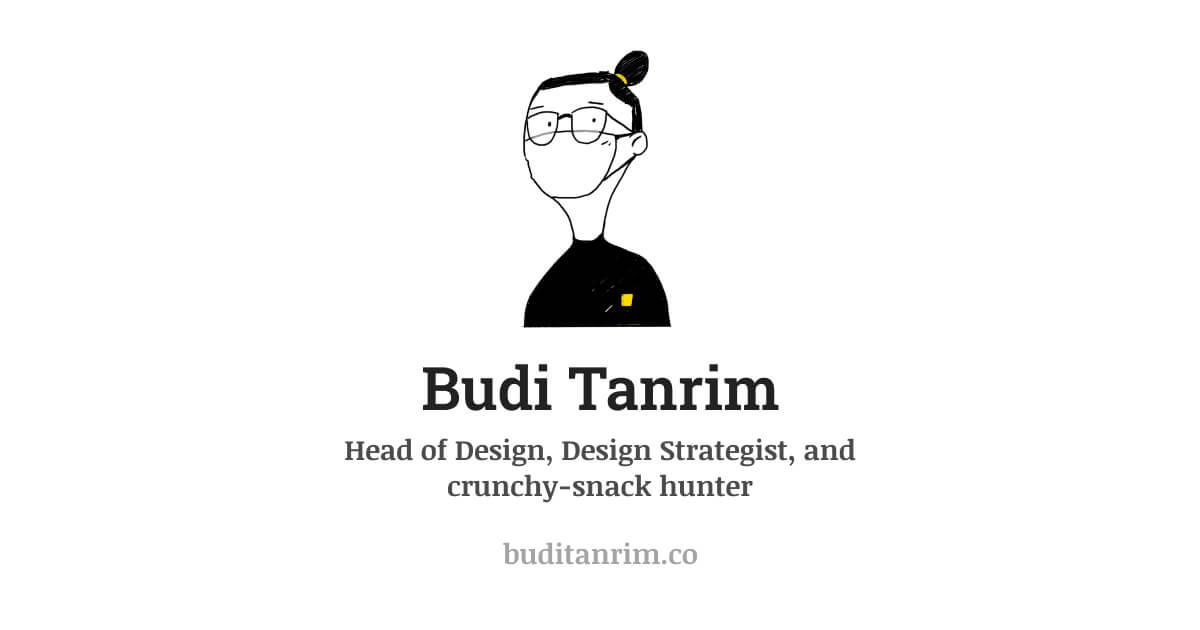
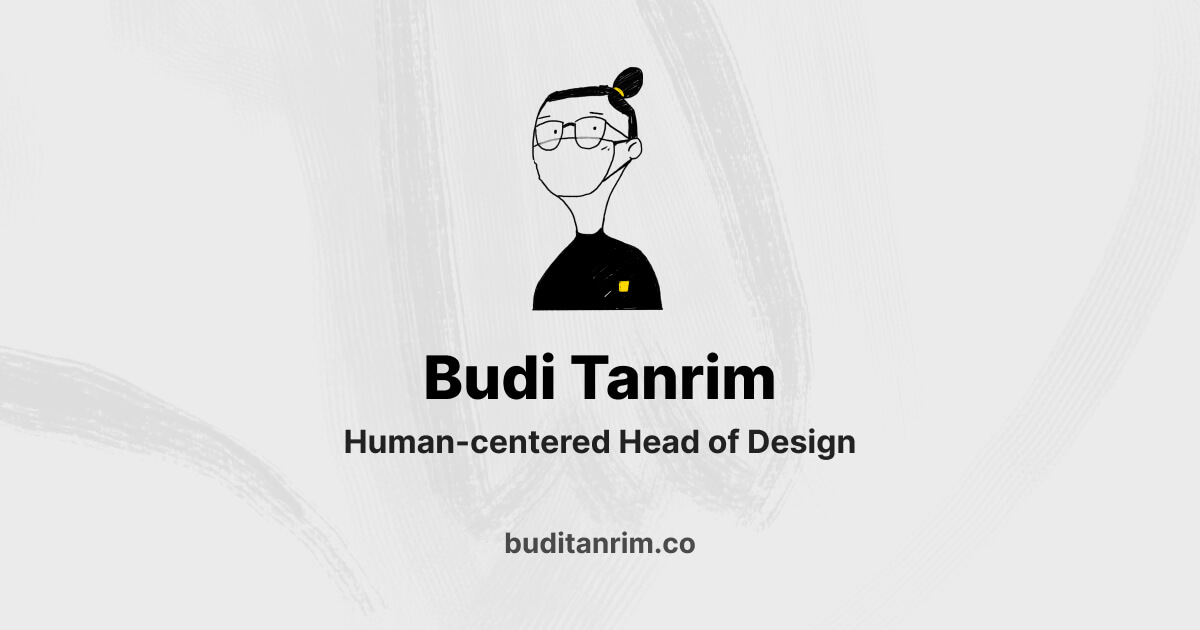
seo image and title changed

diff --git a/index.md b/index.md
@@ -1,14 +1,14 @@
 ---
 layout: post-index
-title: Journal
-description: Budi Tanrim's personal blog about design.
+title: Budi Tanrim
+description: Head of Design at Bukalapak and Human-centered practicioner
 id: index
 
 image:
- path: /img/seo/yellowstroke-seo.jpg
+ path: /img/seo/buditanrim-seo.jpg
  height: 630
  width: 1200
 gif: false
 twitter-seo:
- - "seo/yellowstroke-seo.jpg"
+ - "seo/buditanrim-seo.jpg"
 ---
